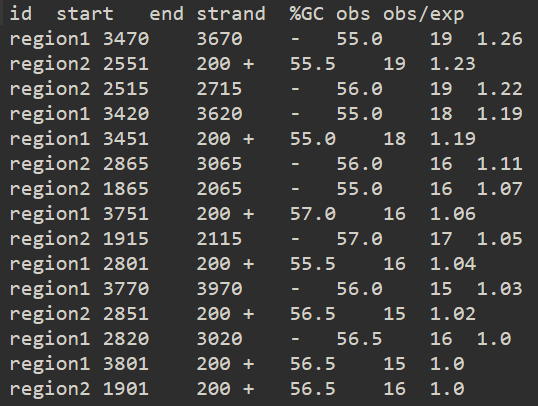
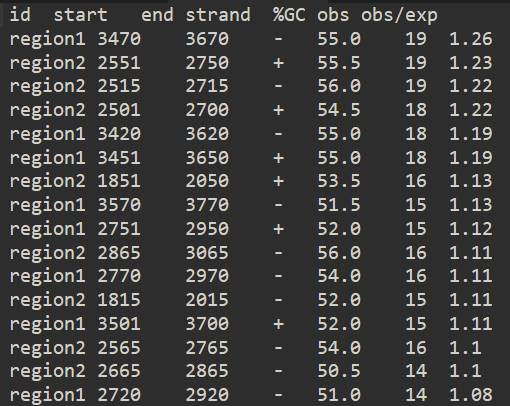
fix typo for end coordinate

diff --git a/src/command_line/cpg_island_identificator.py b/src/command_line/cpg_island_identificator.py
@@ -43,7 +43,7 @@ for record in SeqIO.parse(args['input'], "fasta"):
             gccont.append(gc(record.seq[i:i + args['window']]))
             gcratio.append(ratio(record.seq[i:i + args['window']]))
             start.append(i + 1) # fix python index
-            end.append(args['window']) # retrieve the end position of each putative CpG island
+            end.append(i + args['window']) # retrieve the end position of each putative CpG island
             headers.append(record.id)
             strand.append('+')
 # reverse complement

diff --git a/src/gui/cpg_island_identificator_gui.py b/src/gui/cpg_island_identificator_gui.py
@@ -45,7 +45,7 @@ def main():
                 gccont.append(gc(record.seq[i:i + args['window']]))
                 gcratio.append(ratio(record.seq[i:i + args['window']]))
                 start.append(i + 1) # fix python index
-                end.append(args['window']) # retrieve the end position of each putative CpG island
+                end.append(i + args['window']) # retrieve the end position of each putative CpG island
                 headers.append(record.id)
                 strand.append('+')
     # reverse complement
